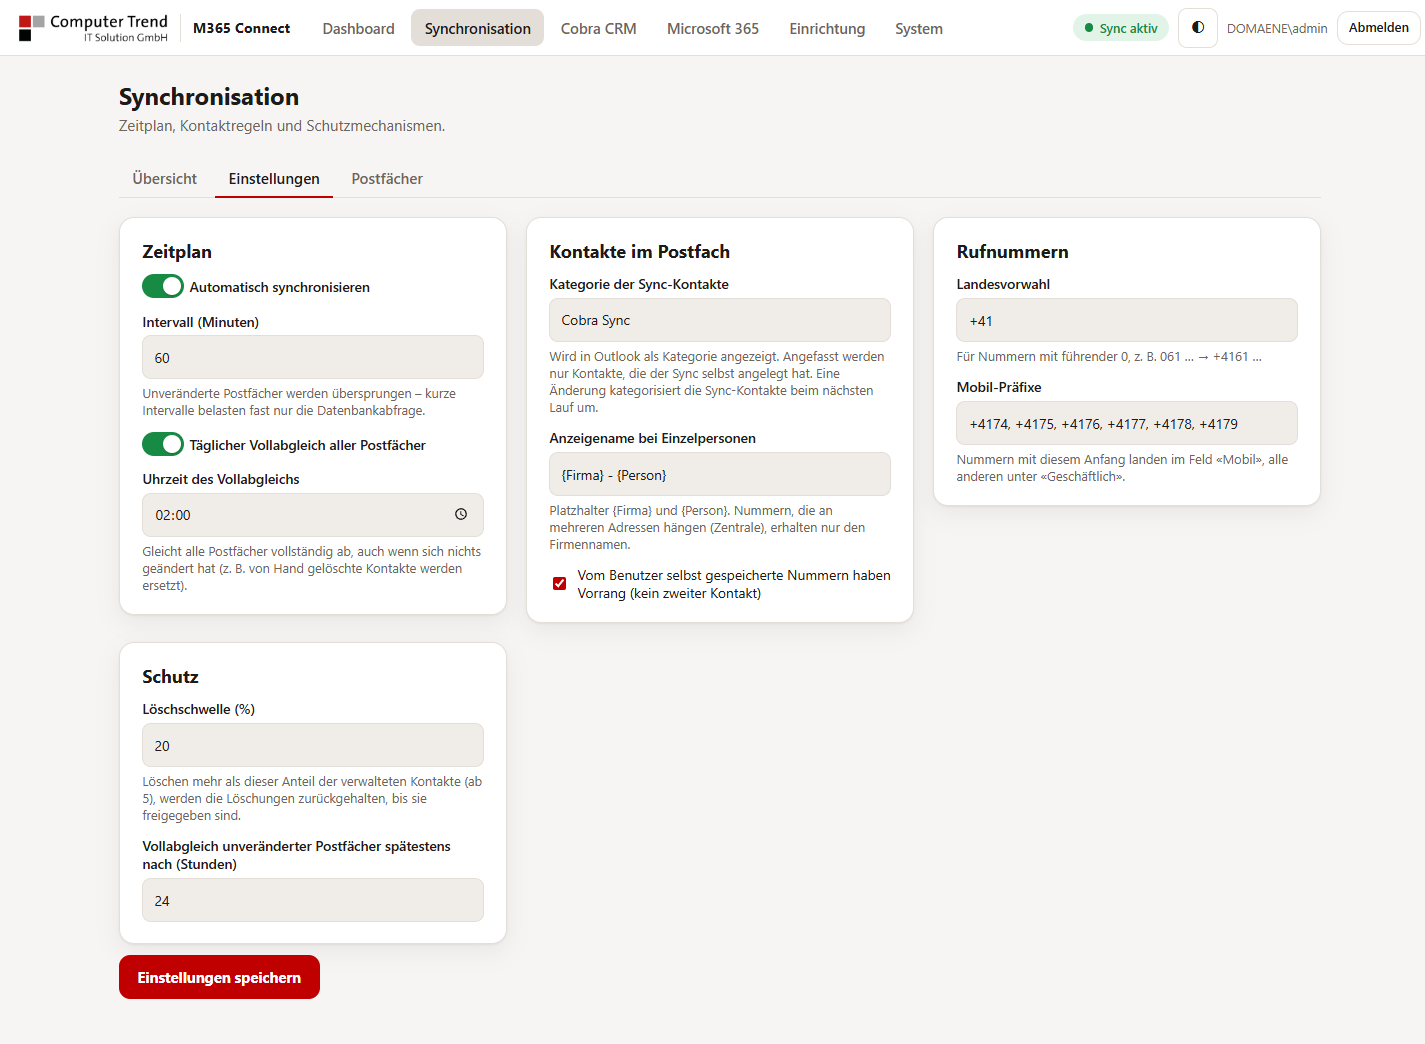
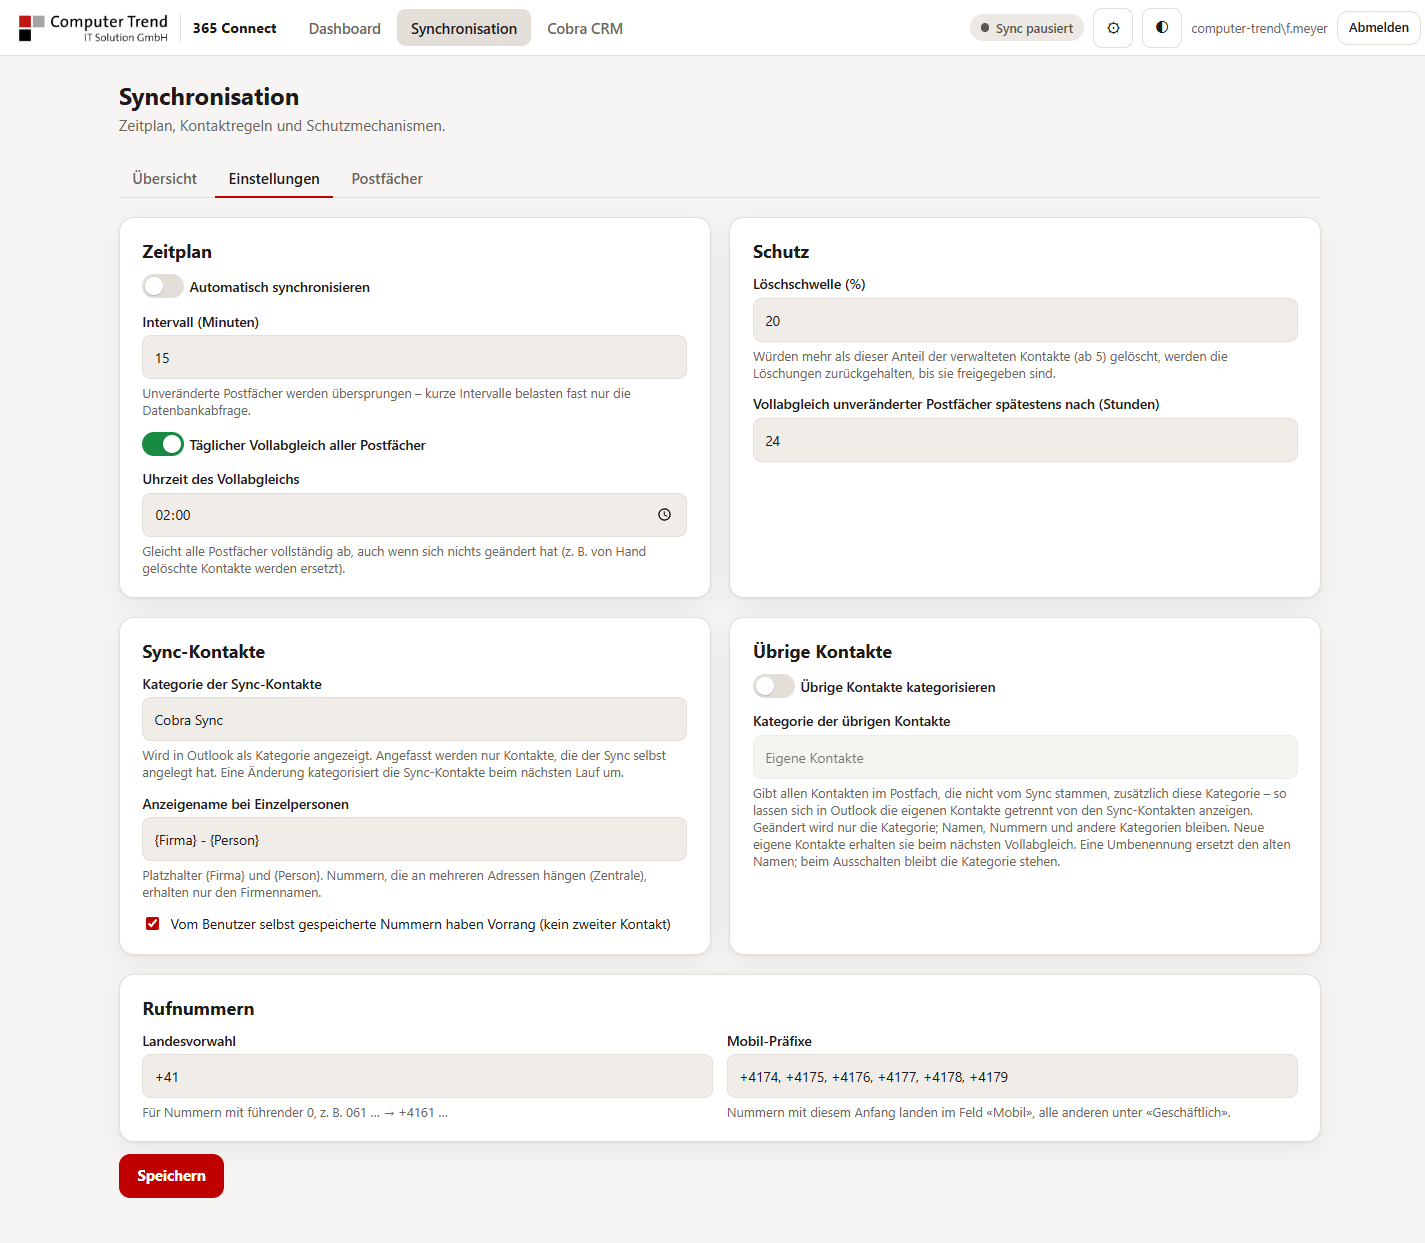
0.5.1: Änderungen, Menüpfade und Screenshot Sync-Einstellungen

diff --git a/docs/betrieb.md b/docs/betrieb.md
@@ -29,18 +29,18 @@ Würde ein Lauf mehr als den eingestellten Anteil der verwalteten Kontakte lösc
 ab 5 Kontakten), hält das Programm alle Löschungen und Ersetzungen zurück. Neue Kontakte werden trotzdem angelegt.
 Typische Ursachen sind ein geänderter Adressfilter, eine geänderte Feldzuordnung oder ein Problem in der Quelle.
 
-1. **Synchronisation → Dry Run** ausführen und die Tabelle prüfen.
+1. **Synchronisation → Trockenlauf** ausführen und die Tabelle prüfen.
 2. Ist der Plan richtig: **Genau diesen Plan freigeben**. Die Freigabe gilt nur für genau diesen Plan und
    24 Stunden; ändert sich der Plan, braucht es eine neue Freigabe.
 3. Der nächste Lauf führt die Löschungen aus.
 
-Ist der Plan falsch, die Ursache beheben (z. B. Einstellungen in Cobra CRM) und erneut einen Dry Run ausführen.
+Ist der Plan falsch, die Ursache beheben (z. B. Einstellungen in Cobra CRM) und erneut einen Trockenlauf ausführen.
 
 ## Updates
 
 ![Updates](images/09-updates.png)
 
-**System → Updates** zeigt die installierte und die verfügbare Version.
+**Einstellungen → Updates** zeigt die installierte und die verfügbare Version.
 
 - **Nach Updates suchen** fragt die Releases dieses Repositorys ab. Automatisch alle 6 Stunden, wenn eingeschaltet.
 - **Jetzt installieren** lädt das Paket, prüft Prüfsumme und Signatur und übergibt an das Update-Programm. Die
@@ -57,7 +57,7 @@ Minuten sauber, werden **Programm und Datenbank automatisch zurückgespielt**. D
 ![Benutzer](images/11-benutzer.png)
 
 Anmelden darf sich nur, wer Mitglied der lokalen Windows-Gruppe **«CTM365Connect Admins»** ist – direkt oder über
-eine AD-Gruppe. Unter **System → Benutzer** lassen sich Konten aufnehmen und entfernen:
+eine AD-Gruppe. Unter **Einstellungen → Benutzer** lassen sich Konten aufnehmen und entfernen:
 
 - Eingabe als `DOMÄNE\benutzer`, `benutzer@domäne.ch` oder AD-Gruppe → **Prüfen** → **Hinzufügen**.
 - Bei Konten, die aus dem AD nach Entra ID synchronisiert werden, ist das **AD-Konto** einzutragen, nicht `AzureAD\…`.
@@ -76,11 +76,11 @@ net localgroup "CTM365Connect Admins" DOMÄNE\benutzer /add
 ![Fernzugriff](images/10-fernzugriff.png)
 
 Standardmässig ist die Oberfläche nur direkt auf dem Server erreichbar (`https://localhost:8443/`). Unter
-**System → Fernzugriff** lässt sie sich für freigegebene **private** Netze öffnen. Das Programm pflegt dazu
+**Einstellungen → Fernzugriff** lässt sie sich für freigegebene **private** Netze öffnen. Das Programm pflegt dazu
 automatisch eine Windows-Firewall-Regel und prüft die Adresse jedes Besuchers zusätzlich selbst.
 
 - Netze in CIDR-Schreibweise angeben, z. B. `192.168.1.0/24` (ganzes Netz) oder `192.168.1.25/32` (ein Gerät).
-- Aufruf über den **Servernamen** (z. B. `https://server.kunde.local:8443/`) – unter **System → Systemstatus**
+- Aufruf über den **Servernamen** (z. B. `https://server.kunde.local:8443/`) – unter **Einstellungen → Allgemein**
   steht die genaue Adresse.
 - Aus dem Netz ist nur die **Kerberos**-Anmeldung zugelassen. Geräte ohne Verbindung zum Domänencontroller
   (z. B. nur in Entra ID eingebunden) brauchen den Schalter «NTLM-Anmeldung aus dem Netz erlauben»; dann nur
@@ -101,7 +101,7 @@ automatisch eine Windows-Firewall-Regel und prüft die Adresse jedes Besuchers z
 
 Das Datenverzeichnis ist nur für SYSTEM und Administratoren zugänglich. Warnungen und Fehler stehen zusätzlich in der
 Windows-Ereignisanzeige unter **Anwendung**, Quelle «CT M365 Connect» (siehe [Überwachung](ueberwachung.md)).
-**System → Logs** zeigt die letzten Einträge in der Oberfläche.
+**Einstellungen → Logs** zeigt die letzten Einträge in der Oberfläche.
 
 > [!NOTE]
 > Die Datenbank und die Zugangsdaten sind an den Server gebunden (DPAPI). Bei einem Serverwechsel das Programm auf
@@ -153,4 +153,4 @@ Eigenes Zertifikat statt des selbstsignierten: Zertifikat in `LocalMachine\My` i
 | Postfach mit Status «Fehler» | Postfach nicht erreichbar (z. B. Lizenz entfernt). Meldung unter Synchronisation → Postfächer prüfen. |
 | Teams zeigt keinen Namen | Zweimal anrufen (Zwischenspeicher von Teams). Prüfen, ob die Nummer im Kontakt mit Landesvorwahl gespeichert ist. |
 | Update fehlgeschlagen | Die vorherige Version läuft wieder. Details in `update\updater.log`. |
-| Zertifikat der App läuft ab (nach 10 Jahren) | Einrichtung → Microsoft 365 erneut ausführen und die alte App-Registrierung löschen. |
+| Zertifikat der App läuft ab (nach 10 Jahren) | Microsoft-365-Assistent (Einstellungen → Verbindungen) erneut ausführen und die alte App-Registrierung löschen. |

diff --git a/README.md b/README.md
@@ -31,8 +31,8 @@ Nummer. Das Programm läuft als Windows-Dienst beim Kunden und wird über eine W
 |---|---|
 | **Anruferkennung in Teams** | Ein persönlicher Kontakt je Person bzw. Firmenzentrale im Standard-Kontaktordner – genau dort, wo Teams eingehende Nummern auflöst. |
 | **CRM strikt lesend** | Cobra CRM wird über ein eigenes Leselogin mit Leserecht auf genau eine Tabelle gelesen. Im CRM wird nie etwas geändert. |
-| **Nur eigene Kontakte** | Angefasst werden ausschliesslich Kontakte mit der eigenen Kategorie. Private Kontakte der Benutzer bleiben unberührt. |
-| **Dry Run und Löschschutz** | Jeder Lauf lässt sich vorher ohne Schreiben prüfen. Grosse Löschmengen werden zurückgehalten, bis sie ausdrücklich freigegeben sind. |
+| **Nur eigene Kontakte** | Angelegt, geändert und gelöscht werden ausschliesslich die selbst angelegten Kontakte mit der eigenen Kategorie. Private Kontakte der Benutzer bleiben unberührt – ausser sie sollen per Opt-in-Schalter eine eigene Kategorie erhalten. |
+| **Trockenlauf und Löschschutz** | Jeder Lauf lässt sich vorher ohne Schreiben prüfen. Grosse Löschmengen werden zurückgehalten, bis sie ausdrücklich freigegeben sind. |
 | **Zeitplan** | Automatischer Abgleich im Intervall und ein täglicher Vollabgleich. Unveränderte Postfächer werden übersprungen. |
 | **Postfachauswahl** | Alle Postfächer, alle ausser einzelnen oder nur gewählte – neue Benutzer auf Wunsch automatisch. |
 | **Einrichtungsassistenten** | App-Registrierung in Entra ID mit Zertifikat und Cobra-Leselogin werden geführt eingerichtet. |
@@ -44,7 +44,7 @@ Nummer. Das Programm läuft als Windows-Dienst beim Kunden und wird über eine W
 
 <table>
   <tr>
-    <td width="50%"><a href="docs/images/02-synchronisation.png"><img src="docs/images/02-synchronisation.png" alt="Synchronisation"></a><br><sub><b>Synchronisation</b> – Zeitplan, Dry Run und Verlauf aller Läufe</sub></td>
+    <td width="50%"><a href="docs/images/02-synchronisation.png"><img src="docs/images/02-synchronisation.png" alt="Synchronisation"></a><br><sub><b>Synchronisation</b> – Zeitplan, Trockenlauf und Verlauf aller Läufe</sub></td>
     <td width="50%"><a href="docs/images/03-sync-einstellungen.png"><img src="docs/images/03-sync-einstellungen.png" alt="Einstellungen"></a><br><sub><b>Einstellungen</b> – Intervall, Kategorie, Anzeigename, Rufnummern, Löschschwelle</sub></td>
   </tr>
   <tr>

diff --git a/docs/installation.md b/docs/installation.md
@@ -80,7 +80,7 @@ Weitere Aufrufe des Skripts:
 
 ## 4. Microsoft 365 verbinden
 
-Menü **Einrichtung → Microsoft 365**:
+**Einstellungen (⚙) → Verbindungen → Microsoft 365**:
 
 1. **Tenant**: leer lassen, wenn das Admin-Konto zum Kundentenant gehört. Bei GDAP- oder Gastkonten den Tenant des
    Kunden eintragen, z. B. `kunde.onmicrosoft.com`.
@@ -95,7 +95,7 @@ Menü **Einrichtung → Microsoft 365**:
 
 ## 5. Cobra CRM verbinden
 
-Menü **Einrichtung → Cobra CRM**. Der Assistent führt in sieben Schritten durch die Verbindung:
+**Einstellungen (⚙) → Verbindungen → Cobra CRM**. Der Assistent führt in sieben Schritten durch die Verbindung:
 
 1. **SQL-Server**: Name oder Adresse, bei Bedarf Port oder benannte Instanz (z. B. `SRV01\COBRA`).
 2. **Anmeldung für die Einrichtung**: `sa` oder «Windows-Anmeldung mit anderem Konto» (DOMÄNE\benutzer und
@@ -142,7 +142,7 @@ Menü **Einrichtung → Cobra CRM**. Der Assistent führt in sieben Schritten du
 
 ## 7. Erster Lauf und Testanruf
 
-1. **Synchronisation → Dry Run**: zeigt je Postfach, was angelegt, ersetzt und gelöscht würde – ohne zu schreiben.
+1. **Synchronisation → Trockenlauf**: zeigt je Postfach, was angelegt, ersetzt und gelöscht würde – ohne zu schreiben.
 2. **Jetzt synchronisieren …** → **Ja, ausführen**.
 3. In Outlook beim Testbenutzer unter Kontakte prüfen: Die Kontakte tragen die Kategorie «Cobra Sync».
 4. Von einer Nummer, die im CRM erfasst ist, **zweimal** auf die Teams-Nummer des Testbenutzers anrufen. Teams
@@ -162,5 +162,5 @@ Für die Überwachung durch ein RMM-Werkzeug siehe [Überwachung](ueberwachung.m
 
 ## 9. Optional: Zugriff aus dem Netz und weitere Benutzer
 
-- **System → Fernzugriff**: Oberfläche aus freigegebenen privaten Netzen erreichbar machen (siehe [Betrieb](betrieb.md#fernzugriff)).
-- **System → Benutzer**: weitere Techniker in die Admin-Gruppe aufnehmen (siehe [Betrieb](betrieb.md#benutzer)).
+- **Einstellungen → Fernzugriff**: Oberfläche aus freigegebenen privaten Netzen erreichbar machen (siehe [Betrieb](betrieb.md#fernzugriff)).
+- **Einstellungen → Benutzer**: weitere Techniker in die Admin-Gruppe aufnehmen (siehe [Betrieb](betrieb.md#benutzer)).

diff --git a/docs/sicherheit.md b/docs/sicherheit.md
@@ -5,7 +5,10 @@
 - **Quellen werden nur gelesen.** Im CRM ändert CT M365 Connect nichts. Die einzige Ausnahme ist der
   Einrichtungsassistent, der auf Klick ein eigenes Leselogin anlegt.
 - **In Microsoft 365 nur eigene Daten.** Geschrieben werden ausschliesslich persönliche Kontakte mit der eigenen
-  Kategorie, in den gewählten Postfächern. Andere Kontakte werden nie verändert oder gelöscht.
+  Kategorie, in den gewählten Postfächern. Andere Kontakte werden nicht gelöscht und inhaltlich nie verändert.
+  Einzige Ausnahme ist der standardmässig ausgeschaltete Schalter «Übrige Kontakte kategorisieren»: Er ergänzt
+  bei diesen Kontakten nur eine zusätzliche Kategorie (Namen, Nummern und übrige Kategorien bleiben); beim
+  Ausschalten oder Rückbau bleibt diese Kategorie stehen.
 - **Kein stilles Löschen.** Ist der Abruf aus der Quelle unvollständig, wird nichts gelöscht. Grosse Löschmengen
   brauchen eine ausdrückliche Freigabe genau dieses Plans.
 
@@ -41,7 +44,7 @@ kann dies in Exchange Online über RBAC für Anwendungen tun.
   Prüfung im Programm. Aus dem Netz standardmässig nur Kerberos.
 - Passworteingaben und die Einrichtung von Microsoft 365 sind nur direkt auf dem Server möglich, solange kein
   Zertifikat einer vertrauenswürdigen Zertifizierungsstelle eingerichtet ist.
-- Alle Änderungen stehen im Auditlog unter **System → Systemstatus**.
+- Alle Änderungen stehen im Auditlog unter **Einstellungen → Allgemein**.
 
 ## Schutz gespeicherter Daten
 

diff --git a/CHANGELOG.md b/CHANGELOG.md
@@ -2,6 +2,14 @@
 
 Ab 0.3.4 sind Versionen regulär; Beta sind nur noch Versionen mit Zusatz (z. B. `1.2.0-beta.1`). Frühere 0.x-Versionen waren Beta. Pakete und Prüfdateien: [Releases](https://github.com/c-trend/M365Connect-Public/releases).
 
+## 0.5.1 – 22.11.2026
+
+- **Oberfläche:** Kachelraster fest zweispaltig mit gleich hohen Kacheln – auf breiten Bildschirmen keine leere dritte Spalte mehr (Dashboard, Cobra CRM, Microsoft 365, Einstellungen). Unter 900 px eine Spalte.
+- **Sync → Einstellungen** neu angeordnet: Zeitplan | Schutz, Sync-Kontakte | Übrige Kontakte (eigene Kachel), Rufnummern über die ganze Breite.
+- Formularfelder in Cobra CRM → Feldzuordnung ohne leere Spalten; die Log-Tabelle lässt sich auf schmalen Bildschirmen seitlich scrollen.
+- **Texte:** «Trockenlauf» statt «Dry Run», Meldungen bei Verbindungsabbruch auf Deutsch, einheitliche Begriffe (Einmal-Setup-Token, Zertifikatsspeicher, Prüfung) und korrekte Menüpfade («Einstellungen → …»).
+- Dokumentation: Menüpfade nachgeführt, Sicherheitsgrundsätze um den Opt-in-Schalter «Übrige Kontakte kategorisieren» ergänzt, Screenshot Sync-Einstellungen neu.
+
 ## 0.5.0 – 22.11.2026
 
 - **Neuer Anzeigename «CT 365 Connect».** Dienst, Programm- und Datenordner, Firewall-Regel und Zertifikate behalten ihre bisherigen Namen; ein Update ändert an der Installation nichts.
